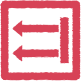
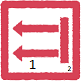
Almost everything works as expected now :D

diff --git a/qml/Resources/Manager.qml b/qml/Resources/Manager.qml
@@ -1,3 +1,12 @@
+/****************************************************************************
+**
+** QML Resources manager
+** Source: https://github.com/it-s/resqt
+** (c) 2014 - Eugene Trounev (it-s)
+** License: Apache License. See the LICENSE file for details
+**
+****************************************************************************/
+
 import QtQuick 2.2
 import QtQuick.Window 2.0
 
@@ -5,96 +14,139 @@ import "js/undersore.js" as U_
 
 Item {
     id: manager
-    anchors.fill: parent
 
-    property string source: ""
-    property string resourcesDir: "/resources/"
+    visible: false // We don't want this element to be visible as it's just a holder
 
-    property int screenWidth: manager.width
-    property int screenHeight: manager.height
-    property int intendedScreenWidth: 0
-    property int intendedScreenHeight: 0
+    property variant appWindow: null    //This has to be set to the main application window
+                                        //We need it to track the window size changes
+    property string source: ""          //Resources definition file file
+    property string resourcesDir: "/resources/" //Base resources directory. All our resources go here
 
-    property real scaleRatio: 1
-    property string scaleSuffix: ""
-    property variant scalesSupported: null
+    property int screenWidth: appWindow.width   //Total width of our app window (Normally on mobile app fills the screen)
+    property int screenHeight: appWindow.height //Total height of our app window (Normally on mobile app fills the screen)
+    property int intendedScreenWidth: 0         //The width our original assets are targeted for
+    property int intendedScreenHeight: 0        //The height our original assets are targeted for
 
-    property bool ready: false
+    property real scaleRatio: 1                 //Scale relation between our assets resolution and app resolution
+    property string scaleSuffix: "1"            //The scale suffix. We use this to choose the correct resolution for our assets
+    property variant scalesSupported: null      //List of supported scales as defined by the resources definition file [scalesSupported]
 
+    property bool ready: false          //Tells us if the manager is ready and the definition has been loaded.
 
 //    Private functions -->
-    property variant _definition: null
-    property variant _cache: null
+    property variant _definition: null  //Internal "hidden*" property that holds the loaded resource data
+    property variant _cache: null       //Internal "hidden*" property that holds resourceID-to-resourceData mapping for faster retrivals
 
+    //Internal "hidden*" functon to check if the manager is ready
+    //All it does is test the definition and cache to be null
     function _checkIfReady(){
-        ready = (screenWidth &&
-                 screenHeight &&
-                 intendedScreenWidth &&
-                 intendedScreenHeight &&
-                 _definition != null &&
-                 _cache != null);
+        ready = (!U_.isNull(_definition) &&
+                 !U_.isNull(_cache));
         return ready;
     }
 
-    function _computeResolutionSuffix(){
-        console.log(scaleRatio)
-        scaleSuffix = String((scaleRatio < 1)?
-                                 (Math.round(scaleRatio) === 0 ? 0.5 : Math.round(scaleRatio))
-                               : Math.floor(scaleRatio));
-        _checkIfReady();
-    }
-
+    //Internal "hidden*" functon to compute and set out scaleRatio, and scaleSuffix
+    //relative to what application is at right now, versus what our resources support
     function _computeScreenScaleRatio(){
+        var d, appd, suffixValue, suffixScale;
+        //First lets check if all our required values are there:
         if (    !screenWidth ||
                 !screenHeight||
                 !intendedScreenWidth||
-                !intendedScreenHeight) return 1;
-        var d = Math.sqrt(intendedScreenWidth*intendedScreenWidth + intendedScreenHeight*intendedScreenHeight); //diagonaly(w,h);
-        var appd = Math.sqrt(screenWidth*screenWidth + screenHeight*screenHeight);
+                !intendedScreenHeight) return false;
+        //Compute the diagonal length of the intended resolution (SHOULD)
+        d = Math.sqrt(intendedScreenWidth*intendedScreenWidth + intendedScreenHeight*intendedScreenHeight);
+        //Compute the diagonal length of the current app window (IS)
+        appd = Math.sqrt(screenWidth*screenWidth + screenHeight*screenHeight);
+        //Calculate the ration between what IS and what SHOULD be
         scaleRatio =  appd/d;
-        _checkIfReady();
+        //Lets reduce our value to an acceptable numeric range ...
+        suffixValue = (scaleRatio < 1)?
+                    (Math.round(scaleRatio) === 0 ? 0.5 : Math.round(scaleRatio))
+                   : Math.floor(scaleRatio);
+        //And find the name of the resource group that corresponds to it
+        //  || OR assign the max resource group possible if the scale is out of range
+        suffixScale = U_.find(scalesSupported, function(scale, index){
+            return scale.value === suffixValue;
+        }) || U_.max(scalesSupported, function(scale){ return scale.value; });
+        //Safely assign the scale name to the Manager's scaleSuffix public variable
+        scaleSuffix = suffixScale.name || "";
+        //Notify our app that resolution has changed
+        resolutionChanged(scaleRatio);
+        return true;
     }
 
+    //Internal "hidden*" functon to update the resource cache
+    // when we load/reload the definition file from storage
     function _updateResourceCache(){
-        var images = _definition["images"];
-        if ( U_.isUndefined(images) || U_.isNull(images) || images.length === 0) return;
-        var c = {};
+        var images = _definition["images"] || null, c = {};
+        //Check if the deefinition has images array list
+        if ( U_.isUndefined(images)  || U_.isNull(images) || images.length === 0) return false;
+        //Iterate the array and pick out all the resource names (IDs) from the list for later refference
         U_.each(images, function(image, index){
             c[image.name] = index;
         });
         _cache = c;
+        return true;
+    }
+
+    //Internal "hidden*" functon called when our resource definition loads from storage
+    function _prepareResources(){
+        ready = false;
+        //Check if definition has been loaded and it's the object we need
+        if (!_definition || !_definition.intendedResolution) return;
+        //Update the Manager public properties:
+        intendedScreenWidth     = _definition.intendedResolution.width;
+        intendedScreenHeight    = _definition.intendedResolution.height;
+        scalesSupported         = _definition.scalesSupported;
+        //Call cache update
+        if (!_updateResourceCache()) return;
         _checkIfReady();
     }
 
+    //Internal "hidden*" functon that parse the definition file
+    // and generates additional data we will need later
     function _parseDefinition(d){
         var definition = JSON.parse(d);
         var baseDir = resourcesDir + definition.imagesBaseDir + "/";
-
+        //Compose the filly qualified resource file path
         function fullFilePath(baseDir, fileName, suffix){
             return baseDir + fileName.replace(/(.*)\.(.*?)$/, "$1" + suffix + ".$2");
         }
+        //Compute the intervals we need to decide when to show which resolution
+        // out of the list of available
         function setIntervals(o){
-            var m = 0;
-            return U_.map( U_.sortBy(o, function(v){return v.value;}),
-            function(v, i){
-                v['min'] = m;
-                v['max'] = ( i == o.length - 1)? 99 : m = v.value;
-                return v;
-            });
+            var m = 0,
+                c = U_.map( U_.sortBy(o, function(v){return v.value;}),
+                    function(v, i){
+                        v['min'] = m;
+                        v['max'] = ( i === o.length - 1)? 99 : m = v.value;
+                        return v;
+                    });
+            return c;
         }
+        //Find the best fittting scale for each defined resolution category
         function findBestScaleFor(scale, scalesAvailabe){
-            return U_.find(setIntervals(scalesAvailabe),function(o){
+            return U_.find(scalesAvailabe ,function(o){
                 return o.min < scale.value && scale.value <= o.max;
             });
         }
+        //First we make sure our list of supported resolitions is sorted by value min-to-max
         definition.scalesSupported = U_.sortBy(definition.scalesSupported, function(o){return o.value;});
+        //Then we iterate each image resource on the list to determine what fits the best
+        // out of what it supports
         definition.images = U_.map(definition.images, function(image){
-            var fileMap = {};
-            var scales = setIntervals(U_.pick(definition.scalesSupported, image.scalesAvailabe));
+            var fileMap = {},
+                //Use setIntervals function to create min/max interval map for each target resolution supported
+                scalesAvailabe = setIntervals(U_.filter(definition.scalesSupported, function(scale, index){
+                    return U_.contains(image.scalesAvailabe, scale.name);
+                }));
+            //Iterate each upported resolution and compare which interwal it fits the best
             U_.each(definition.scalesSupported, function(scale, index){
                 fileMap[scale.name] = fullFilePath(baseDir, image.file,
-                                            findBestScaleFor(scale, scales).suffix);
+                                            findBestScaleFor(scale, scalesAvailabe).suffix);
             });
+            //finally add everything we have just computed to the [image] object for later use
             return U_.extend(image, {
                                  "fileMap": fileMap,
                                  "baseDir": baseDir
@@ -103,59 +155,62 @@ Item {
         return definition;
     }
 
+    //Internal "hidden*" functon that attempts to load the definition file from storage
     function _loadDefinition(){
-        console.log("Loading resource definition...")
-        if (source === "") return;
         var request = new XMLHttpRequest()
+        console.log("Loading resource definition...")
+        ready = false;
+        if (source === "") return false;
         request.open('GET', (resourcesDir + source));
         request.onreadystatechange = function(event) {
-            if (request.readyState == XMLHttpRequest.DONE) {
+            if (request.readyState === XMLHttpRequest.DONE) {
                 if (!request.responseText){
                     console.log("Resource definition file not found or is empty.");
-                    return;
+                    return false;
                 }
                 console.log ("success");
                 manager._definition = _parseDefinition(request.responseText);
+                _prepareResources();
+                return true;
             }
         }
         request.send()
     }
 
-    Component.onCompleted: _loadDefinition()
-
 //    Signal Listeners -->
 
+    //Track app width cahnges (we don't really need this on mobile, but we do on desktop
     onScreenWidthChanged:   _computeScreenScaleRatio()
+    //Track app height cahnges (we don't really need this on mobile, but we do on desktop
     onScreenHeightChanged:  _computeScreenScaleRatio()
+    //Track the source file changes and load it from the storage
+    onSourceChanged: _loadDefinition()
 
-    on_DefinitionChanged: {
-        ready = false;
-        if (!_definition || !_definition.intendedResolution) return;
-        intendedScreenWidth = _definition.intendedResolution.width;
-        intendedScreenHeight = _definition.intendedResolution.height;
-        scalesSupported = _definition.scalesSupported;
-        _computeScreenScaleRatio();
-        _computeResolutionSuffix();
-        _updateResourceCache();
-        _checkIfReady();
-    }
+//    Signals Listeners -->
+    //Signal we emit when resolution has changed and all the relevant values re-computed
+    signal resolutionChanged
 
 //    Public Functions -->
 
+    //Public function that calculates the value (width, height, top,...) based on current app screen scale
+    // relative to what app was intended for, rounded to the next whole pixel
     function scale(n){
         return Math.ceil(n * scaleRatio);
     }
 
+    //Public function that returns our resource object by ID using the resource cache
+    // to save time/resources
     function getByID(resource){
         if (!ready) return null;
         if ( !hasID(resource) ){
-            console.log("Could not find resource ID:" + resource);
+            console.log("Could not find resource with ID: " + resource);
             return null;
         }
 
         return _definition.images[_cache[resource]]
     }
 
+    //Public function that checks if we have the resource we are asking for
     function hasID(resource){
         if (!ready) return undefined;
         return U_.has( _cache, resource );

diff --git a/qml/Resources/Image.qml b/qml/Resources/Image.qml
@@ -1,22 +1,25 @@
 import QtQuick 2.0
 
+
 Image{
     id: image
     property variant resource: null
-//    property alias forceWidth: resourceData.forcedWidth
-//    property alias forceHeight: resourceData.forcedHeight
+    property real forceWidth: 0
+    property real forceHeight: 0
 
-    width: _R.scale(resource.width.value)
-    height: _R.scale(resource.height.value)
+    function update(){
+        if (!_R.ready || resource == undefined || resource == null) return;
+        width   = _R.scale(resource.width.value)
+        height  = _R.scale(resource.height.value)
+        source  = resource.fileMap[_R.scaleSuffix]
+        sourceSize.width = resource.width.value
+        sourceSize.height = resource.height.value
+    }
 
-    source: resource.fileMap[_R.scaleSuffix]
+    onResourceChanged:  update()
+    Component.onCompleted: {
+        _R.resolutionChanged.connect(update)
+    }
 
-    asynchronous: false
-    cache: true
-
-    fillMode: Image.Stretch
-    smooth: true
-
-    sourceSize.width: resource.width.value
-    sourceSize.height: resource.height.value
+    fillMode: Image.Stretch //This has to be set to stretch
 }

diff --git a/qml/main.qml b/qml/main.qml
@@ -4,29 +4,26 @@ import QtQuick.Window 2.2
 import "Resources"
 
 Window {
+    id: app
     visible: true
-    width: 384 * 2
-    height: 640 * 2
+    width: 320
+    height: 480
 
     Manager{
         id: _R
+        appWindow: parent
         source: "definition.json"
     }
 
     Image{
-        resource : _R.getByID("menuExit")
-    }
-
-    MouseArea {
-        anchors.fill: parent
-        onClicked: {
-//            Qt.quit();
-            console.log(JSON.stringify(_R.getByID("menuExit")));
-        }
+        resource : _R.getByID("exit")
+        anchors.centerIn: parent
     }
 
     Text {
         text: qsTr("Hello World")
-        anchors.centerIn: parent
+        anchors.horizontalCenter: parent.horizontalCenter
+        anchors.verticalCenterOffset: 150
+        anchors.verticalCenter: parent.verticalCenter
     }
 }
